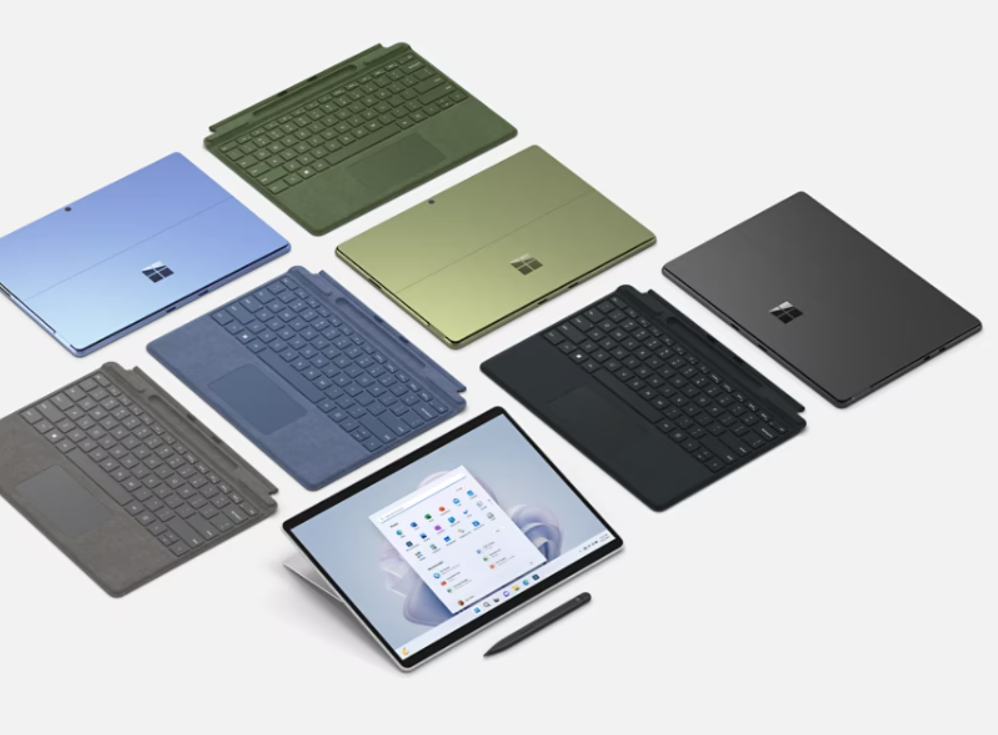
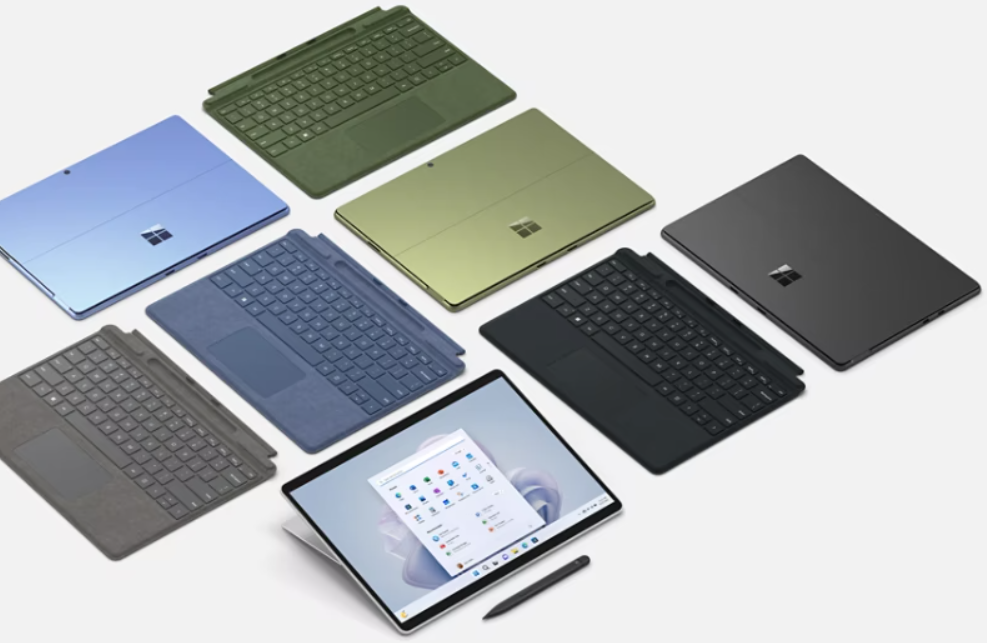
slider

diff --git a/index.html b/index.html
@@ -8,7 +8,7 @@
 </head>
 <body>
     <!--Navbar-->
-    <div class="navbar flex justify-between md:py-4 px-4">
+    <div class="navbar flex justify-between md:py-4 px-4 items-center md:items-end">
         <div class="flex items-center justify-center">
             <div class="hamburger inline-block p-4 cursor-pointer md:hidden">
                 <div class="line h-0.5 w-6 my-1 bg-black"></div>
@@ -44,6 +44,22 @@
             </div>
             <div class="account">
                 Account
+            </div>
+        </div>
+    </div>
+
+    <!--slider-->
+    <div class="slider cursor-pointer bg-[#f2f2f2] flex flex-col justify-center md:justify-start md:flex-row">
+        <div class="right">
+            <img class='w-[48rem] object-cover' src="/images/slider.png" alt="">
+        </div>
+        <div class="left flex flex-col justify-center gap-4 p-8">
+            <h1 class="text-3xl font-bold">Surface Pro 9</h1>
+            <p class="md:max-w-[28rem]">
+                Tablet versatility and laptop power — all in one ultra-portable device
+            </p>
+            <div class="buttons flex gap-10">
+                <button class="bg-[#0067b8] hover:bg-[#005ca5] text-white px-3 py-2">Learn More</button>
             </div>
         </div>
     </div>
